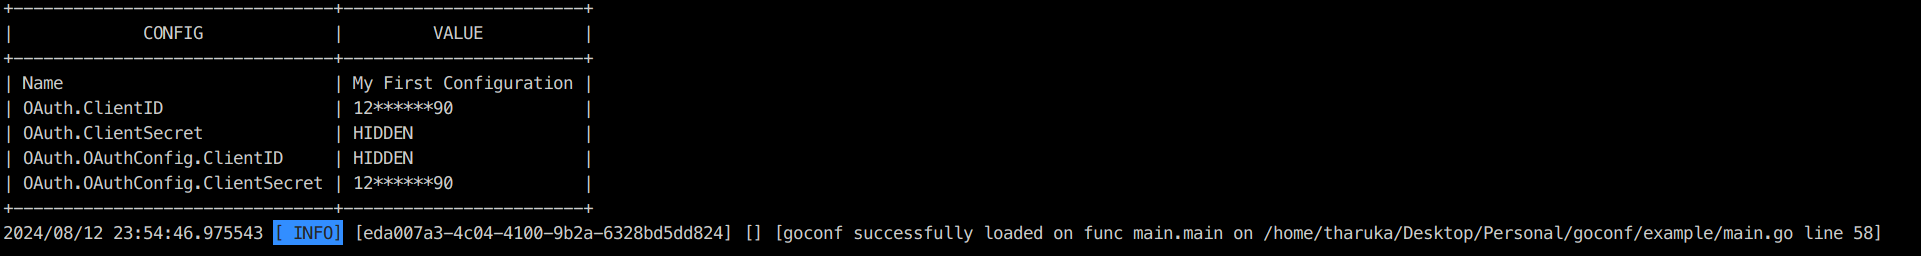
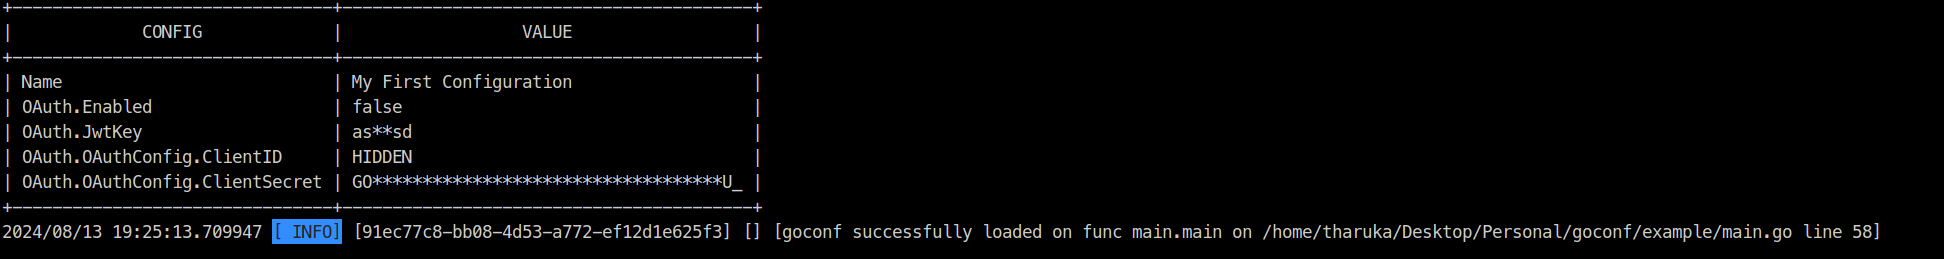
added readme and new hush package added

diff --git a/example/main.go b/example/main.go
@@ -15,14 +15,14 @@ type Conf struct {
 }
 
 type OAuth struct {
-	ClientID     string `env:"CLIENT_ID" envDefault:"1234567890" hush:"mask"`
-	ClientSecret string `env:"CLIENT_SECRET" envDefault:"1234567890" hush:"hide"`
-	OAuthConfig  OAuthConfig
+	Enabled     bool   `env:"OAUTH_ENABLED" envDefault:"False"`
+	JwtKey      string `env:"JWT_KEY" envDefault:"asdasd" hush:"mask"`
+	OAuthConfig OAuthConfig
 }
 
 type OAuthConfig struct {
-	ClientID     int64 `env:"CLIENT_ID" envDefault:"1234567890" hush:"hide"`
-	ClientSecret int64 `env:"CLIENT_SECRET" envDefault:"1234567890" hush:"mask"`
+	ClientID     string `env:"CLIENT_ID" envDefault:"234234234-23234kjh23jk4g2j3h4gjh23g4f.apps.googleusercontent.com" hush:"hide"`
+	ClientSecret string `env:"CLIENT_SECRET" envDefault:"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10U_" hush:"mask"`
 }
 
 var Config Conf

diff --git a/register.go b/register.go
@@ -50,7 +50,7 @@ func printTable(p Printer) {
 	pr := p.Print()
 
 	// Create a HushType instance
-	husher, err := hush.NewHushType(pr)
+	husher, err := hush.NewHush(pr)
 	if err != nil {
 		log.Fatal(err)
 	}

diff --git a/README.md b/README.md
@@ -1,69 +1,82 @@
+[![CI](https://github.com/tlmanz/goconf/actions/workflows/ci.yml/badge.svg)](https://github.com/tlmanz/goconf/actions/workflows/ci.yml)
+[![CodeQL](https://github.com/tlmanz/goconf/actions/workflows/codequality.yml/badge.svg)](https://github.com/tlmanz/goconf/actions/workflows/codequality.yml)
+[![Coverage Status](https://coveralls.io/repos/github/tlmanz/goconf/badge.svg)](https://coveralls.io/github/tlmanz/goconf)
+![Open Issues](https://img.shields.io/github/issues/tlmanz/goconf)
+[![Go Report Card](https://goreportcard.com/badge/github.com/tlmanz/goconf)](https://goreportcard.com/report/github.com/tlmanz/goconf)
+![GitHub release (latest by date)](https://img.shields.io/github/v/release/tlmanz/goconf)
+
 # Go Config
 Library to load env configuration
 
 **Note: This is a fork of [wgarunap/goconf](https://github.com/wgarunap/goconf)**
 
-### How to use it
+## Features
+- Load configuration from environment variables
+- Validate configuration
+- Print configuration in a table format
+- Mask or hide sensitive information
+
+## Installation
+```bash
+go get github.com/tlmanz/goconf
+```
+
+## How to use it
+
+1. Define your configuration struct:
 
 ```go
-package main
-
-import (
-	"errors"
-	"os"
-
-	"github.com/caarlos0/env/v6"
-	"github.com/tlmanz/goconf"
-	"github.com/tryfix/log"
-)
-
 type Conf struct {
-	Name  string `env:"MY_NAME"`
-	OAuth OAuth
+    Name  string `env:"MY_NAME"`
+    OAuth OAuth
 }
 
 type OAuth struct {
-	ClientID     string `env:"CLIENT_ID" envDefault:"1234567890" hush:"mask"`
-	ClientSecret string `env:"CLIENT_SECRET" envDefault:"1234567890" hush:"hide"`
-	OAuthConfig  OAuthConfig
+    ClientID     string `env:"CLIENT_ID" envDefault:"1234567890" hush:"mask"`
+    ClientSecret string `env:"CLIENT_SECRET" envDefault:"1234567890" hush:"hide"`
+    OAuthConfig  OAuthConfig
 }
 
 type OAuthConfig struct {
-	ClientID     int64 `env:"CLIENT_ID" envDefault:"1234567890" hush:"hide"`
-	ClientSecret int64 `env:"CLIENT_SECRET" envDefault:"1234567890" hush:"mask"`
+    ClientID     int64 `env:"CLIENT_ID" envDefault:"1234567890" hush:"hide"`
+    ClientSecret int64 `env:"CLIENT_SECRET" envDefault:"1234567890" hush:"mask"`
 }
 
 var Config Conf
 
 func (Conf) Register() error {
-	return env.Parse(&Config)
+    return env.Parse(&Config)
 }
 
 func (Conf) Validate() error {
-	if Config.Name == "" {
-		return errors.New(`MY_NAME environmental variable cannot be empty`)
-	}
-	return nil
+    if Config.Name == "" {
+        return errors.New(`MY_NAME environmental variable cannot be empty`)
+    }
+    return nil
 }
 
 func (Conf) Print() interface{} {
-	return Config
+    return Config
 }
+```
 
+2. Load the configuration:
+
+```go
 func main() {
-	_ = os.Setenv("MY_NAME", "My First Configuration")
+    _ = os.Setenv("MY_NAME", "My First Configuration")
 
-	err := goconf.Load(
-		new(Conf),
-	)
-	if err != nil {
-		log.Fatal(err)
-	}
-	if Config.Name != `My First Configuration` {
-		log.Fatal(`error while comparing config`)
-	}
+    err := goconf.Load(
+        new(Conf),
+    )
+    if err != nil {
+        log.Fatal(err)
+    }
+    if Config.Name != `My First Configuration` {
+        log.Fatal(`error while comparing config`)
+    }
 
-	log.Info(`goconf successfully loaded`)
+    log.Info(`goconf successfully loaded`)
 }
 ```
 
